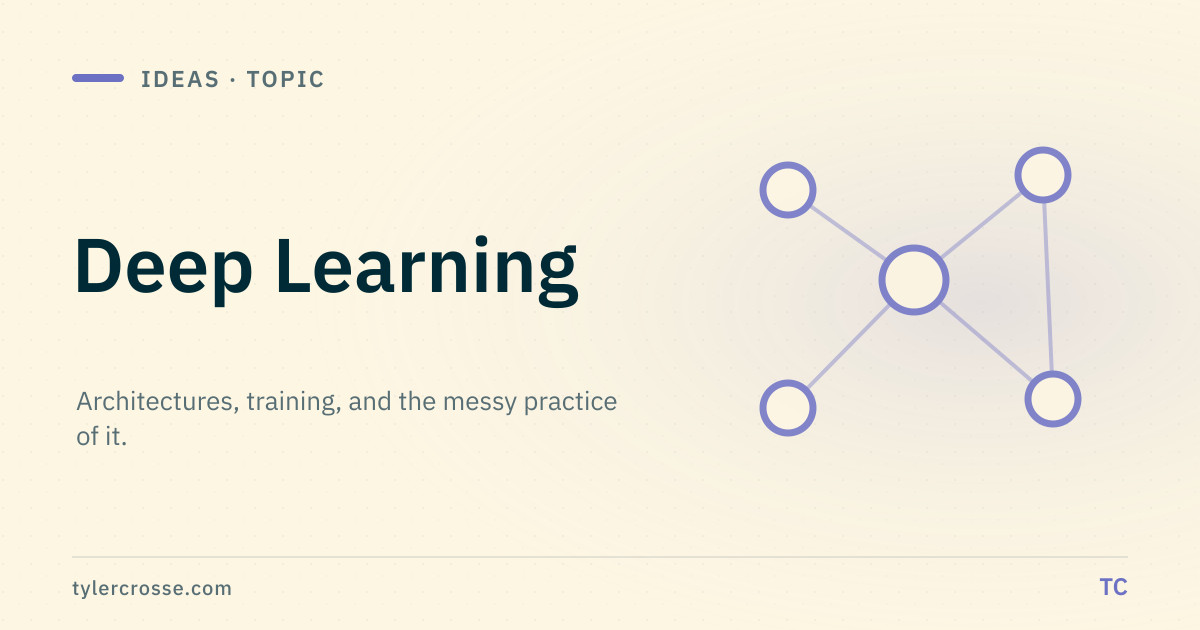
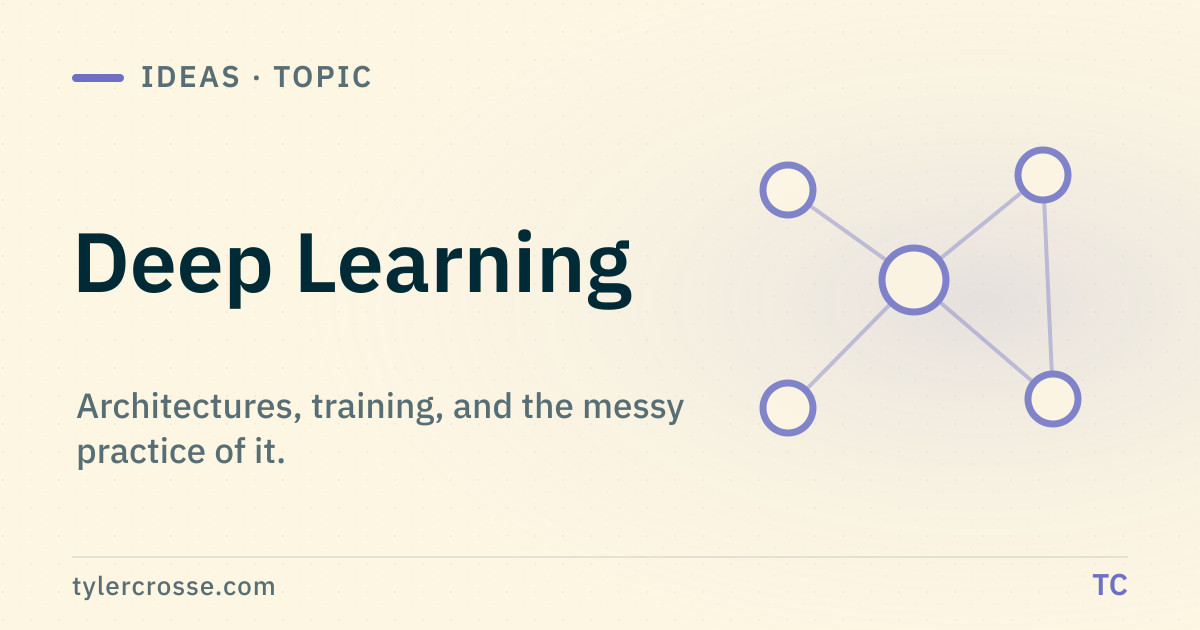
Refine social cards and preview tooling
Increase card typography for Slack-sized previews, add a branded\nbooking card, and regenerate the core card images. Keep the preview\ngallery available during local development while removing it from\nproduction output, sitemap, and search indexing.

diff --git a/e2e/social-cards.spec.ts b/e2e/social-cards.spec.ts
@@ -5,6 +5,7 @@ const coreRoutes = [
   { path: "/", image: "/social/home.jpg", type: "website" },
   { path: "/about/", image: "/social/about.jpg", type: "website" },
   { path: "/ideas/", image: "/social/ideas.jpg", type: "website" },
+  { path: "/booking/", image: "/social/booking.jpg", type: "website" },
   {
     path: "/ideas/topics/machine-learning/",
     image: "/social/topics/machine-learning.jpg",
@@ -113,6 +114,6 @@ test("the local preview gallery shows core and post cards", async ({ page }) => 
   ).toBeVisible();
   await expect(
     page.getByTestId("core-social-cards").locator("figure"),
-  ).toHaveCount(8);
+  ).toHaveCount(9);
   expect(await page.getByTestId("post-social-cards").locator("figure").count()).toBeGreaterThan(20);
 });
